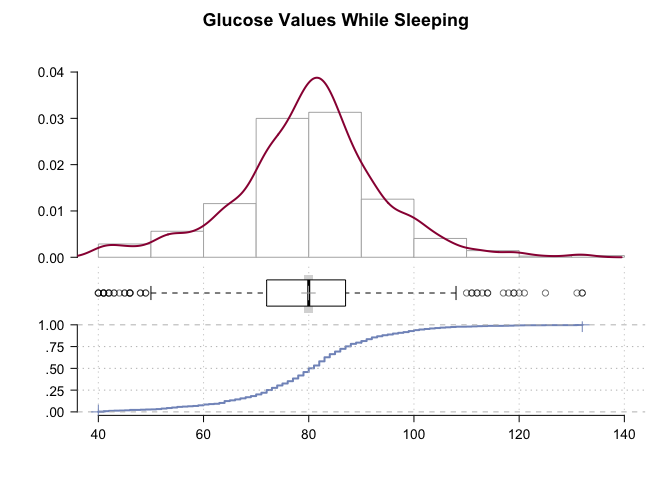
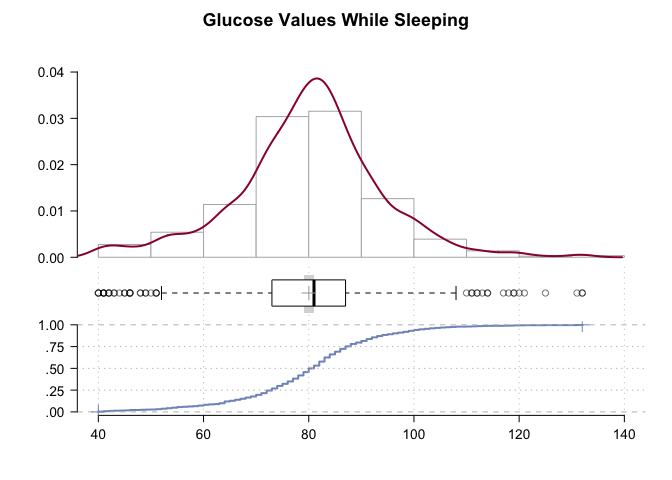
updated data (and cbd + beer)

diff --git a/README.md b/README.md
@@ -1,7 +1,7 @@
 Continuous Glucose Monitoring with Freestyle Libre
 ================
 Richard Sprague
-2019-01-22
+2019-01-23
 
 See [Continous Glucose Monitoring: Start Here](http://richardsprague.com/notes/continuous-glucose-monitoring/)
 
@@ -22,7 +22,7 @@ Besides the working sensor, to run this script you'll need:
 -   Data downloaded from the Libreview site. (I download it and convert to XLSX format in the file "Librelink.xlsx")
 -   A separate activity file to register your food, exercise, sleep, and other events. (Another XLSX file I call "Activity.XLSX")
 
-See examples of all my raw data files in \[.\]
+See examples of all my raw data files in \[.\](.)
 
 One you have downloaded the raw Librelink data and created the activity file, you must read the results into two dataframes:
 
@@ -179,39 +179,6 @@ Here's how I look when eating specific foods:
 
 ![](README_files/figure-markdown_github/unnamed-chunk-6-13.png)![](README_files/figure-markdown_github/unnamed-chunk-6-14.png)![](README_files/figure-markdown_github/unnamed-chunk-6-15.png)
 
-| experiment   |  max(value)|  min(value)|  change|
-|:-------------|-----------:|-----------:|-------:|
-| Latte1       |          NA|          NA|      NA|
-| latte2       |         120|          74|      46|
-| latte3       |          99|          86|      13|
-| latte4       |         100|          90|      10|
-| latte5       |         107|          87|      20|
-| latte6       |         115|          96|      19|
-| Latte7       |         144|          91|      53|
-| Latte8       |         136|          88|      48|
-| Latte9       |         108|          86|      22|
-| Latte10      |         104|          84|      20|
-| Latte11      |         115|          89|      26|
-| Chai Latte12 |         128|          74|      54|
-| Latte13      |         103|          82|      21|
-| latte14      |         107|          92|      15|
-| Latte15      |         115|         100|      15|
-| Latte16      |         133|         100|      33|
-| Latte17      |          97|          73|      24|
-| Latte18      |          82|          69|      13|
-| Latte19      |          85|          65|      20|
-| Latte20      |         101|          69|      32|
-| Latte21      |          93|          67|      26|
-| Latte22      |         104|          81|      23|
-| Latte23      |         113|          74|      39|
-| Latte24      |         100|          74|      26|
-| Latte25      |          99|          71|      28|
-| Latte26      |         106|          84|      22|
-| Latte27      |         105|          77|      28|
-| Latte28      |         105|          88|      17|
-
-![](README_files/figure-markdown_github/unnamed-chunk-6-16.png)
-
 Basic Statistics
 ----------------
 
@@ -245,7 +212,7 @@ glucose %>% filter(apply(sapply(glucose$time,
     ## ------------------------------------------------------------------------- 
     ## Describe . (tbl_df, tbl, data.frame):
     ## 
-    ## data.frame:  837 obs. of  1 variables
+    ## data.frame:  869 obs. of  1 variables
     ## 
     ##   Nr  ColName  Class    NAs  Levels
     ##   1   value    numeric  .          
@@ -255,14 +222,14 @@ glucose %>% filter(apply(sapply(glucose$time,
     ## Glucose Values While Sleeping
     ## 
     ##   length       n    NAs  unique     0s   mean  meanCI
-    ##      837     837      0      81      0  79.95   79.01
-    ##           100.0%   0.0%           0.0%          80.90
+    ##      869     869      0      81      0  80.02   79.11
+    ##           100.0%   0.0%           0.0%          80.94
     ##                                                      
     ##      .05     .10    .25  median    .75    .90     .95
-    ##    54.80   63.00  72.00   80.00  87.00  96.40  102.00
+    ##    55.00   64.00  73.00   81.00  87.00  96.00  102.00
     ##                                                      
     ##    range      sd  vcoef     mad    IQR   skew    kurt
-    ##    92.00   13.92   0.17   10.38  15.00  -0.04    1.13
+    ##    92.00   13.75   0.17   10.38  14.00  -0.05    1.20
     ##                                                      
     ## lowest : 40.0 (3), 41.0 (4), 42.0 (3), 43.0 (2), 44.0
     ## highest: 120.0, 121.0, 125.0, 131.0, 132.0 (2)
@@ -280,24 +247,24 @@ glucose %>% filter(apply(sapply(glucose$time,
     ## ------------------------------------------------------------------------- 
     ## Describe . (tbl_df, tbl, data.frame):
     ## 
-    ## data.frame:  3086 obs. of  1 variables
+    ## data.frame:  3170 obs. of  1 variables
     ## 
     ##   Nr  ColName  Class    NAs        Levels
-    ##   1   value    numeric  17 (0.6%)        
+    ##   1   value    numeric  17 (0.5%)        
     ## 
     ## 
     ## ------------------------------------------------------------------------- 
     ## Glucose Values While Awake
     ## 
     ##   length      n    NAs  unique      0s    mean  meanCI
-    ##    3'086  3'069     17     120       0   91.08   90.40
-    ##           99.4%   0.6%            0.0%           91.75
+    ##    3'170  3'153     17     120       0   90.93   90.27
+    ##           99.5%   0.5%            0.0%           91.59
     ##                                                       
     ##      .05    .10    .25  median     .75     .90     .95
-    ##    64.00  69.00  79.00   89.00  101.00  116.00  127.00
+    ##    64.00  70.00  79.00   89.00  101.00  116.00  126.40
     ##                                                       
     ##    range     sd  vcoef     mad     IQR    skew    kurt
-    ##   151.00  19.04   0.21   16.31   22.00    0.60    1.09
+    ##   151.00  18.86   0.21   16.31   22.00    0.62    1.16
     ##                                                       
     ## lowest : 40.0 (3), 41.0 (4), 42.0 (3), 43.0 (2), 44.0 (5)
     ## highest: 166.0 (2), 172.0, 187.0, 188.0, 191.0
